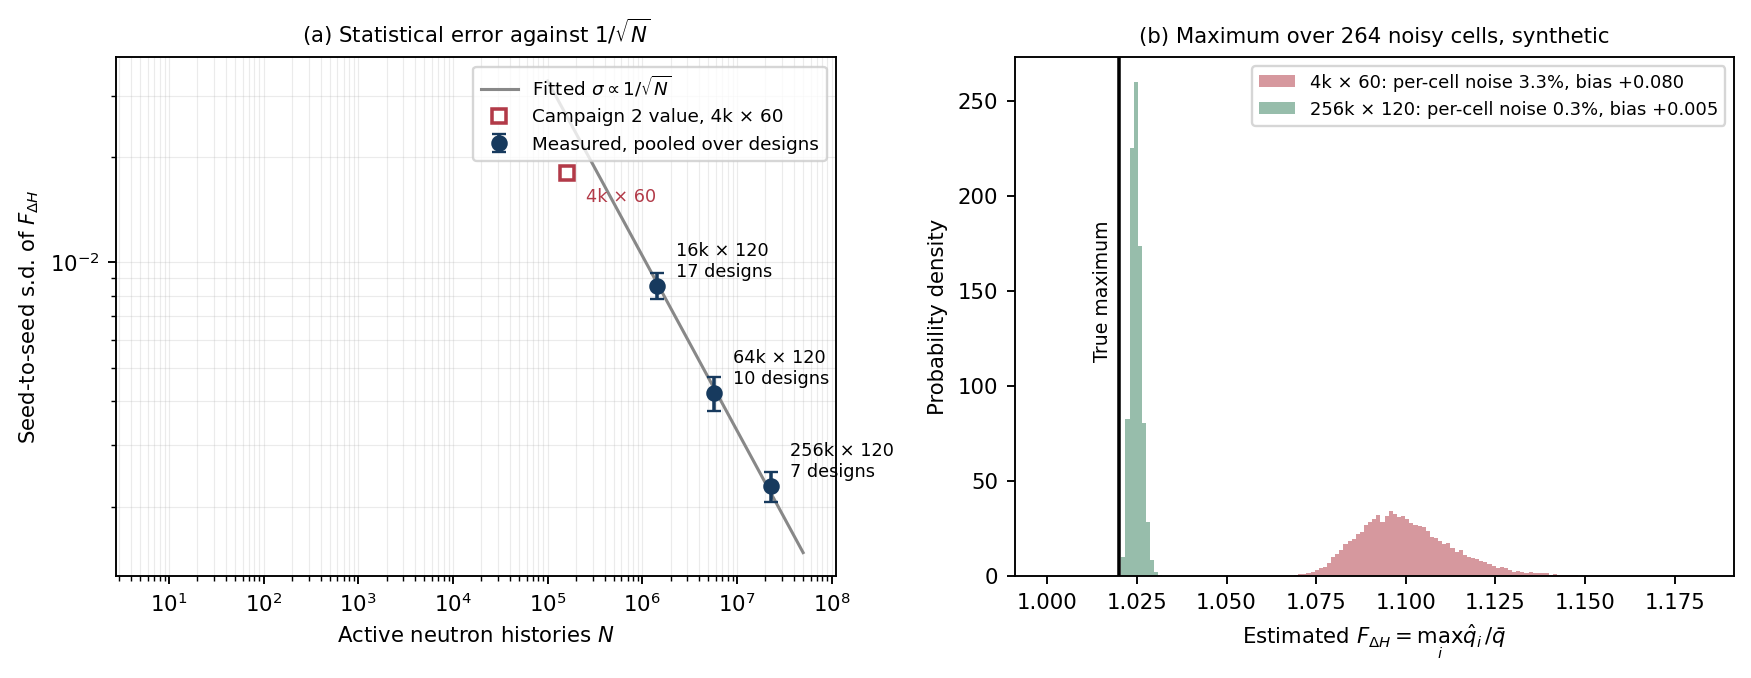
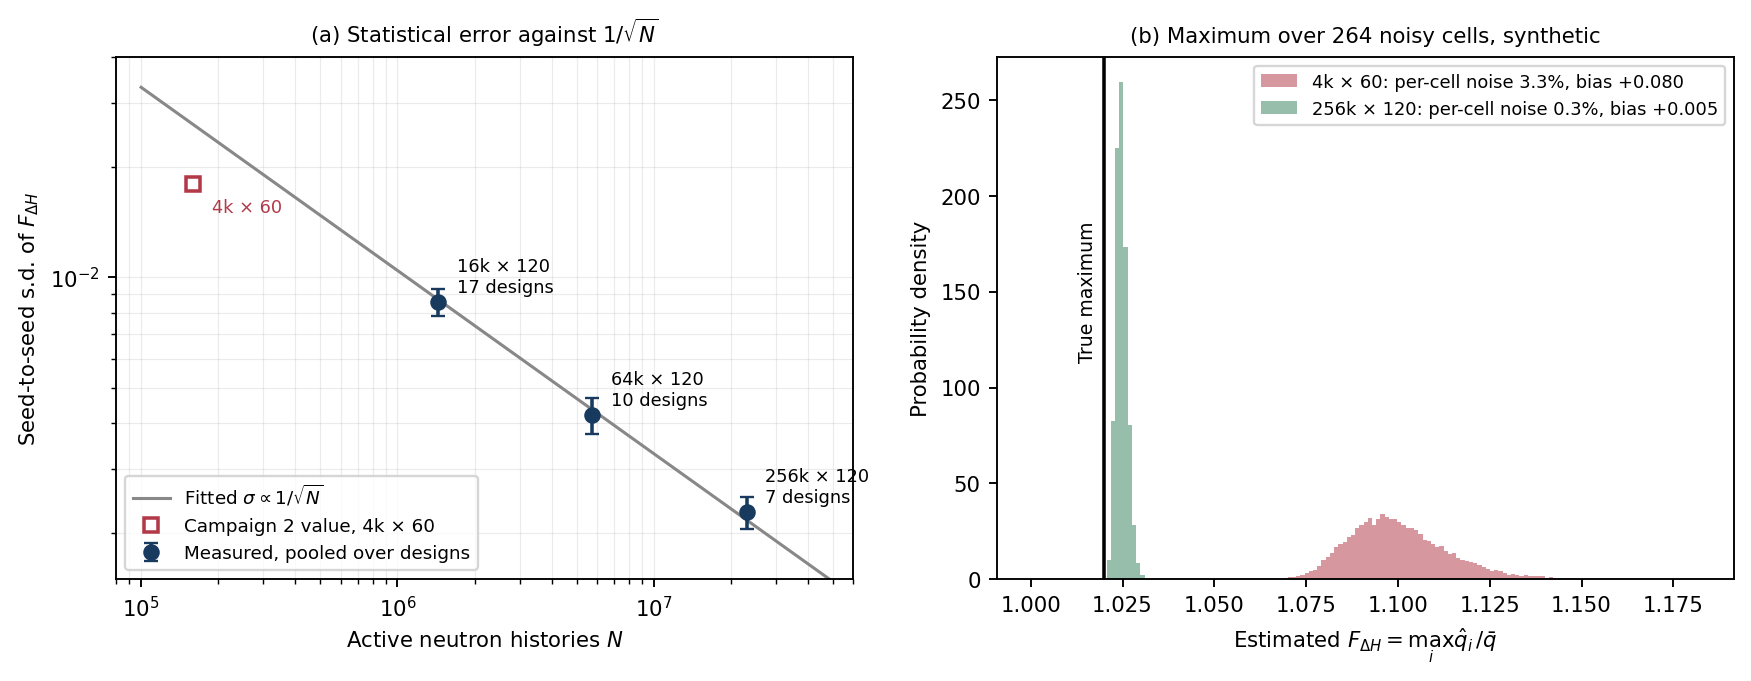
bg_mc_noise: panel (a) axis limits and legend position

diff --git a/make_bg_mc_noise.py b/make_bg_mc_noise.py
@@ -133,8 +133,12 @@ def main():
     ax.set_xlabel("Active neutron histories $N$")
     ax.set_ylabel(r"Seed-to-seed s.d. of $F_{\Delta H}$")
     ax.set_title(r"(a) Statistical error against $1/\sqrt{N}$", fontsize=9)
+    # explicit limits: some matplotlib versions autoscale a log axis down to
+    # 10^1 when an errorbar collection is present
+    ax.set_xlim(8.0e4, 6.0e7)
+    ax.set_ylim(1.5e-3, 4.0e-2)
     ax.grid(alpha=0.25, which="both", lw=0.5)
-    ax.legend(fontsize=7.8, loc="upper right")
+    ax.legend(fontsize=7.8, loc="lower left")
 
     colors = {"4000 x 60": "#c0616b", "256000 x 120": "#5f9a7f"}
     edges = np.linspace(1.0, max(float(d.max()) for d in dist.values()) + 0.005, 160)
